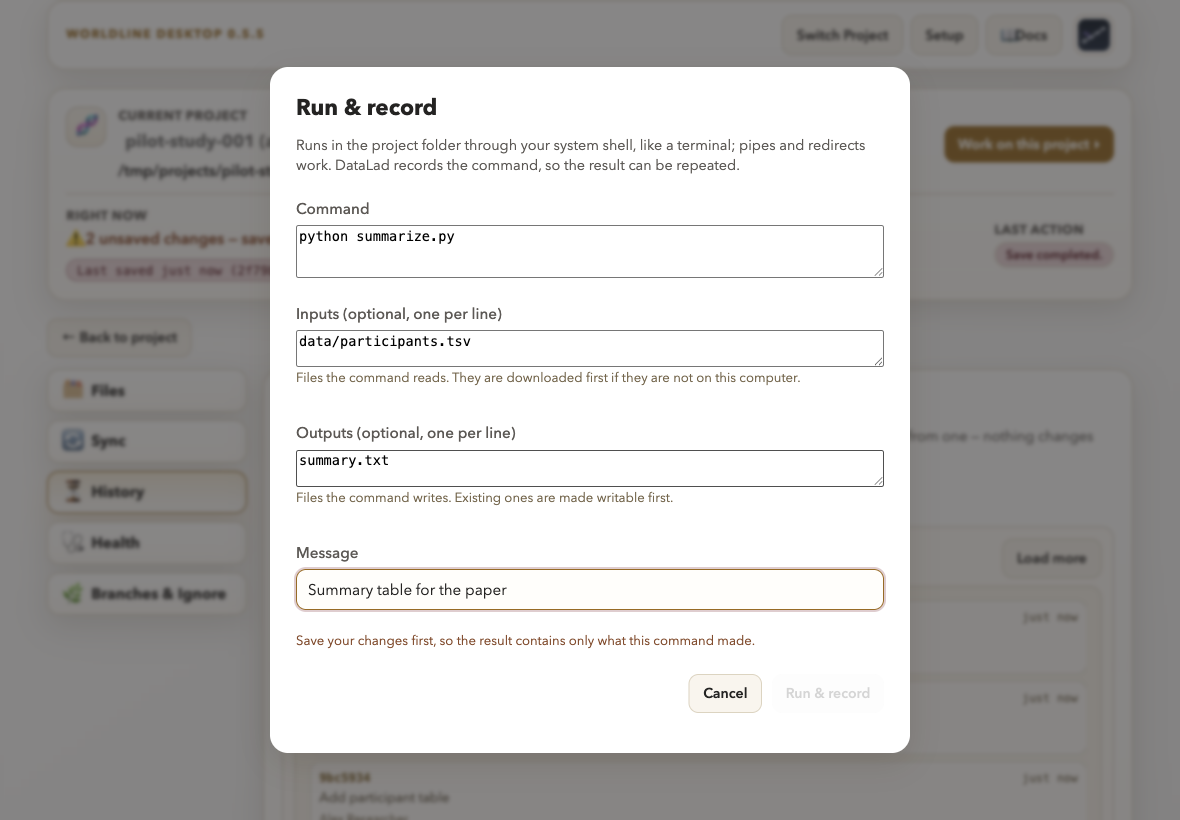
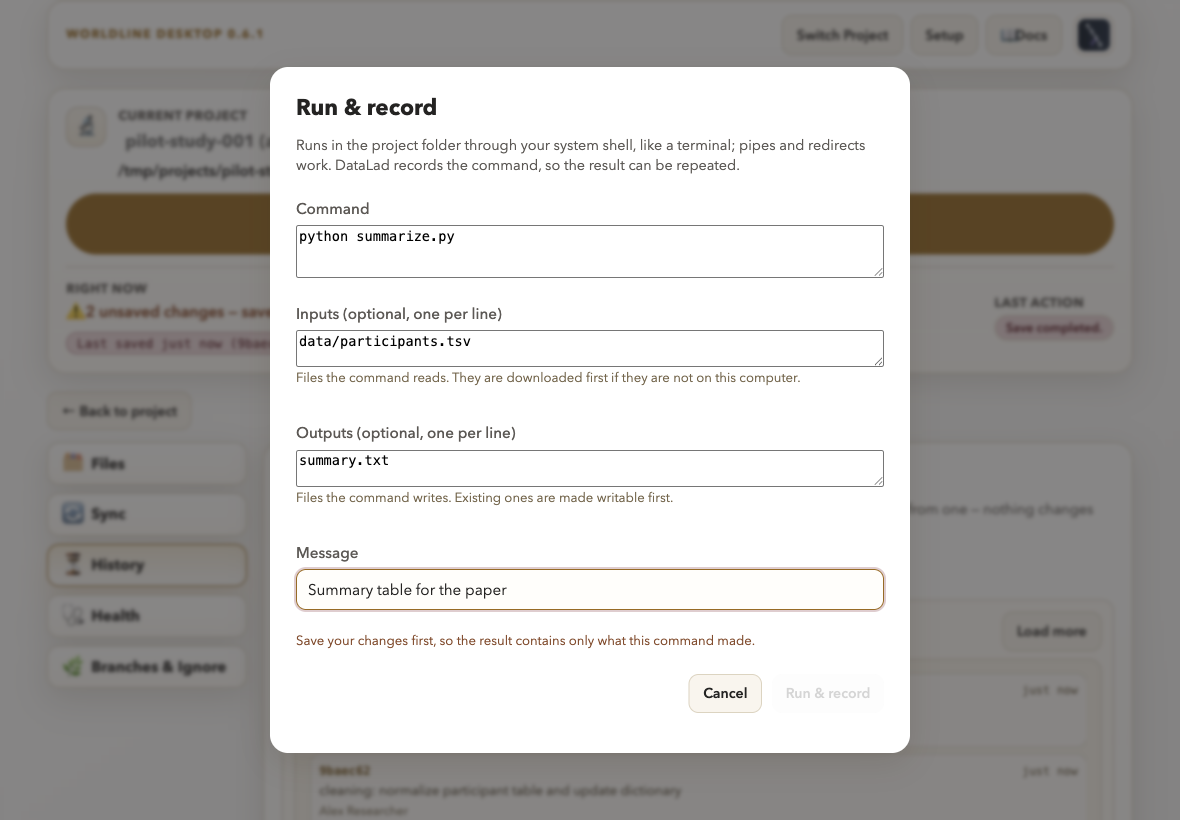
Release 0.6.1 (#92)
* Release 0.6.1: version, changelog, install docs for the stable release

* docs: new screenshots (0.6.1) and tutorial 01 text for the new Save panel (#93)

---------

diff --git a/test/prerelease.test.js b/test/prerelease.test.js
@@ -3,7 +3,7 @@ import assert from 'node:assert/strict'
 import { readFile } from 'node:fs/promises'
 import { renderInstallScript } from '../scripts/render-install-script.mjs'
 
-// A beta ships as a GitHub pre-release: tag v0.6.0-beta.3, never "latest". Source-reading tests normalise CRLF.
+// A tag with a hyphen (v0.6.0-beta.3) is a GitHub pre-release, never "latest"; a plain tag (v0.6.1) is the stable release. Source-reading tests normalise CRLF.
 const read = async (p) => (await readFile(new URL(`../${p}`, import.meta.url), 'utf8')).replace(/\r\n/g, '\n')
 const pkg = JSON.parse(await read('package.json'))
 const lock = JSON.parse(await read('package-lock.json'))
@@ -16,14 +16,14 @@ test('the package version is valid semver and package-lock agrees', () => {
   assert.equal(lock.packages[''].version, pkg.version)
 })
 
-test('this branch is the first 0.6.0 beta', () => {
-  assert.equal(pkg.version, '0.6.0-beta.3')
+test('this branch is the stable 0.6.1', () => {
+  assert.equal(pkg.version, '0.6.1')
 })
 
 for (const [name, file] of [['macos-install.sh', 'scripts/macos/macos-install.sh'], ['linux-install.sh', 'scripts/linux/linux-install.sh'], ['windows-install.cmd', 'scripts/windows/windows-install.cmd']]) {
   test(`${name} rendered for a beta pins the beta and downloads from that tag, not from latest`, async () => {
     const out = renderInstallScript(await read(file), { version: pkg.version, zipSha256: HASH })
-    assert.ok(out.includes('0.6.0-beta.3'))
+    assert.ok(out.includes(pkg.version))
     assert.match(out, /releases\/download\/v(\$\{APP_VERSION\}|\$AppVersion)\//)
     // "latest" survives only in the template hand-over, which a rendered script never reaches (its version no longer starts with __)
     assert.doesNotMatch(out, /\$AppVersion = '__|APP_VERSION='__/)

diff --git a/test/docs-install-macos.test.js b/test/docs-install-macos.test.js
@@ -45,11 +45,12 @@ test('install guide has a Linux section with the one-liner, where the file lands
   assert.match(doc, /worldline-desktop\.desktop/)
 })
 
-test('README and install guide give the beta macOS one-liner with the tag in the URL and warn about the old app', async () => {
+test('README and install guide give the macOS one-liner from the latest release and no longer say only a beta exists', async () => {
   const readme = await readFile(new URL('../README.md', import.meta.url), 'utf8')
-  const beta = /curl -fsSL https:\/\/github\.com\/MRI-Lab-Graz\/Worldline-desktop\/releases\/download\/v0\.6\.0-beta\.3\/macos-install\.sh \| bash/
+  const latest = /curl -fsSL https:\/\/github\.com\/MRI-Lab-Graz\/Worldline-desktop\/releases\/latest\/download\/macos-install\.sh \| bash/
   for (const text of [readme, doc]) {
-    assert.match(text, beta)
-    assert.match(text, /old version 0\.5\.5/)
+    assert.match(text, latest)
+    assert.doesNotMatch(text, /only a beta exists|v0\.6\.0-beta/)
+    assert.match(text, /starts with "DataLad"/) // the old 0.5.5 app is still around on some computers
   }
 })

diff --git a/CHANGELOG.md b/CHANGELOG.md
@@ -1,6 +1,28 @@
 # Changelog
 
-Summarized from git history. Tags: v0.2.1, v0.3.0, v0.4.0, v0.5.0, v0.5.1, v0.5.2, v0.5.3, v0.5.4, v0.5.5, v0.6.0-beta.1, v0.6.0-beta.2, v0.6.0-beta.3 (pre-release).
+Summarized from git history. Tags: v0.2.1, v0.3.0, v0.4.0, v0.5.0, v0.5.1, v0.5.2, v0.5.3, v0.5.4, v0.5.5, v0.6.0-beta.1, v0.6.0-beta.2, v0.6.0-beta.3 (pre-release), v0.6.1.
+
+## 0.6.1
+
+The first stable 0.6 release. GitHub's "latest release" now points here, so the install links without a version number work again.
+
+**New**
+- **Browse a server's folders:** in Create project, Network Folder, type `ssh://server/folder` and press Browse to click through the folders on the server (it uses your own SSH login, key only, no password prompt). Folder names with umlauts and other scripts work, and on Windows the app never looks for `ssh` in the current folder.
+- **Connection Favorites:** give a server address a name once in Setup and pick it by name in Create project.
+- **OpenNeuro web page addresses:** if you paste the web address of a dataset, the app says so and suggests the repository address to use instead.
+- **Delete this project** (Setup, Danger zone): type the project's name to confirm. The dialog counts what only exists on this computer, including inside nested datasets. It is only offered for folders on this computer's own disk, never for a network share or mounted server folder.
+
+**Better**
+- **Save panel:** the message box comes first and is larger; what changed (left) and the check result (right) sit side by side. Save is grayed out, with the reason, when there is nothing to save, and a **Refresh** button re-reads the changes.
+- **Work on this project** is a full-width bar that stays visible as **Hide tools** while the tools are open.
+- **Send my saves:** if the server's copy of a project has the branch open, the app now explains that your saves are safe and what to ask the server's owner, instead of a general failure message.
+- **Files tab:** symbols instead of words with buttons on hover; **Unlock** is only offered for files that are still locked.
+- **Linux:** the install script adds the app icon and no longer needs a manual FUSE 2 install on Fedora.
+
+**Upgrade notes / known limits**
+- Builds are not code-signed. Use the install scripts, not a double-click on a downloaded app.
+- Windows has been tested less than macOS. The server folder browser needs a working SSH key login (on Windows the "OpenSSH Authentication Agent" service must be running if your key has a passphrase).
+- If the app you installed has a name that starts with "DataLad", it is the old 0.5.5: install again with the script.
 
 ## 0.6.0-beta.3 (pre-release)
 

diff --git a/docs/install.md b/docs/install.md
@@ -1,16 +1,14 @@
 # Install & first launch
 
-Trying the beta (a pre-release)? See the [beta testing guide](beta-testing.md).
+Trying a pre-release (beta)? See the [beta testing guide](beta-testing.md).
 
 ## Recommended: install with a script
 
-> **Right now only a beta exists (0.6.0-beta.3).** GitHub's "latest release" is still the old version 0.5.5, from before the rename, which has different file names, so the `latest` links below do not work yet. If the app you installed has a name that starts with "DataLad", you got that old version. Use the tagged links in the [beta testing guide](beta-testing.md); on macOS (Apple silicon):
+> **If the app you installed has a name that starts with "DataLad", it is the old version 0.5.5, from before the rename.** Install again with the script for your system. On macOS (Apple silicon):
 >
 > ```bash
-> curl -fsSL https://github.com/MRI-Lab-Graz/Worldline-desktop/releases/download/v0.6.0-beta.3/macos-install.sh | bash
+> curl -fsSL https://github.com/MRI-Lab-Graz/Worldline-desktop/releases/latest/download/macos-install.sh | bash
 > ```
->
-> Once a stable 0.6 is released, the `latest` links work as written and this note goes away.
 
 The releases are not code-signed, so there is no installer to double-click. Instead a small script downloads the app,
 checks it against a checksum written into the script itself, and sets everything up. You get no security warning.
@@ -36,7 +34,7 @@ checks it against a checksum written into the script itself, and sets everything
 > distribution (it never runs `sudo` itself). See [datalad.org](https://www.datalad.org/) for more. The app's
 > diagnostics screen tells you what's missing.
 
-**PRISM projects** (a `project.json` in the project folder) get a PRISM badge. The project card shows **✓ valid** or the number of problems, and in the Save area the step **Is it valid?** shows the result with a **Check again** button. Save only goes through when
+**PRISM projects** (a `project.json` in the project folder) get a PRISM badge. The project card shows **✓ valid** or the number of problems, and in the Save area the **Is it valid?** box shows the result with a **Check again** button. Save only goes through when
 the PRISM validator (which includes the BIDS check) reports the whole project valid; the save that adds
 `project.json` is the exception. **BIDS projects** (a `dataset_description.json` and no `project.json`) are checked
 the same way before every save, with the BIDS validator. Both come with the one validator install, so there is no extra install. Files that are annexed but not downloaded do not count as errors. The

diff --git a/docs/tutorials/01-first-checkpoint.md b/docs/tutorials/01-first-checkpoint.md
@@ -11,7 +11,7 @@ changes in the newly created project and make a clean first save.
 
 - Open an existing project
 - Read working-tree status
-- Select files for Save (step 1)
+- Choose which changed files a save includes
 - Write clear Save messages
 - Verify a successful save
 
@@ -31,20 +31,20 @@ changes in the newly created project and make a clean first save.
 
 1. Open the project in Worldline Desktop.
 2. Look at the project card: it names the project and says what the project check found. A project made in Tutorial 00 reads "DataLad project". A plain Git folder shows a **Git** badge.
-3. The **Save** area is a few small steps. Step **1 · What changed** lists the changed and untracked files.
-   Click **Show changes** next to a file to see exactly what changed in it before you save.
+3. The **Save** area has the message box on top. Below it, **What changed** lists the changed and untracked files.
+   Click **Show changes** next to a file to see exactly what changed in it before you save. If a file you just edited is not listed yet, press **Refresh**.
 
    ![The Files view (open it with Work on this project → Files), with changed items badged](../_static/screenshots/05-files.png)
 
 4. Every changed file starts ticked. Keep the ticks on the research files
    (`README.md`, `data/raw/participants.tsv`).
 5. Untick the scratch note `notes/todo.txt`.
-6. In the last step, **What did you do, and why?**, write a message in this format. A very vague message ("update", "fix", "wip") gets a nudge, never a block. **Use suggestion** fills in a starting text:
+6. In the box at the top, **What did you do, and why?**, write a message in this format. A very vague message ("update", "fix", "wip") gets a nudge, never a block. **Use suggestion** fills in a starting text:
    - `pilot: update participant table and project summary`
 
    ![The Save area: what changed, what did you do and why, Save this step](../_static/screenshots/04-save-checkpoint.png)
 
-7. Click **Save this step**. In a BIDS or PRISM project there is an extra step in the middle, **Is it valid?**, with the check result; a fresh "not valid" result holds the save back until you fix it.
+7. Click **Save this step**. In a BIDS or PRISM project the **Is it valid?** box next to **What changed** shows the check result; a fresh "not valid" result holds the save back until you fix it. When nothing is left to save, the button turns gray and says why.
 8. Re-check the list of changed files. The saved files are gone from it, and
    only `notes/todo.txt` is left. Open **Work on this project → History** to see your new
    save at the top.

diff --git a/README.md b/README.md
@@ -55,13 +55,11 @@ across nested sub-projects? The app shows you exactly what changed and where.
 
 ## Download & Install
 
-> **Right now only a beta exists (0.6.0-beta.3).** The "latest release" on GitHub is still the old version 0.5.5, from before the rename, which uses different file names. If the app you installed has a name that starts with "DataLad", you got that old one. On macOS (Apple silicon) open Terminal and run:
+> **If the app you installed has a name that starts with "DataLad", it is the old version 0.5.5, from before the rename.** Install again with the script for your system. On macOS (Apple silicon) open Terminal and run:
 >
 > ```bash
-> curl -fsSL https://github.com/MRI-Lab-Graz/Worldline-desktop/releases/download/v0.6.0-beta.3/macos-install.sh | bash
+> curl -fsSL https://github.com/MRI-Lab-Graz/Worldline-desktop/releases/latest/download/macos-install.sh | bash
 > ```
->
-> Windows and Linux: see the [beta testing guide](https://worldline-desktop.readthedocs.io/en/latest/beta-testing.html).
 
 Download the app for your OS from the [Releases page](https://github.com/MRI-Lab-Graz/Worldline-desktop/releases):
 **Windows** `windows-install.cmd` (one file, no admin rights), **macOS** `macos-install.sh` (Apple silicon, one Terminal command, no Gatekeeper warning), **Linux** `linux-install.sh`. The scripts check the app against a SHA-256 written into the script, so the

diff --git a/docs/beta-testing.md b/docs/beta-testing.md
@@ -1,4 +1,6 @@
-# Beta testing guide (0.6.0-beta.3)
+# Beta testing guide
+
+> **0.6.1 is a normal release now.** Install it from the [install guide](install.md). This page is kept for future pre-releases; the links below are the last beta (0.6.0-beta.3) and are out of date.
 
 Thank you for testing Worldline Desktop. This is a **beta**: a version that is not finished and has not been used on all systems yet. It is published as a GitHub *pre-release*, so the normal download links do not give it to you; use the links below.
 
